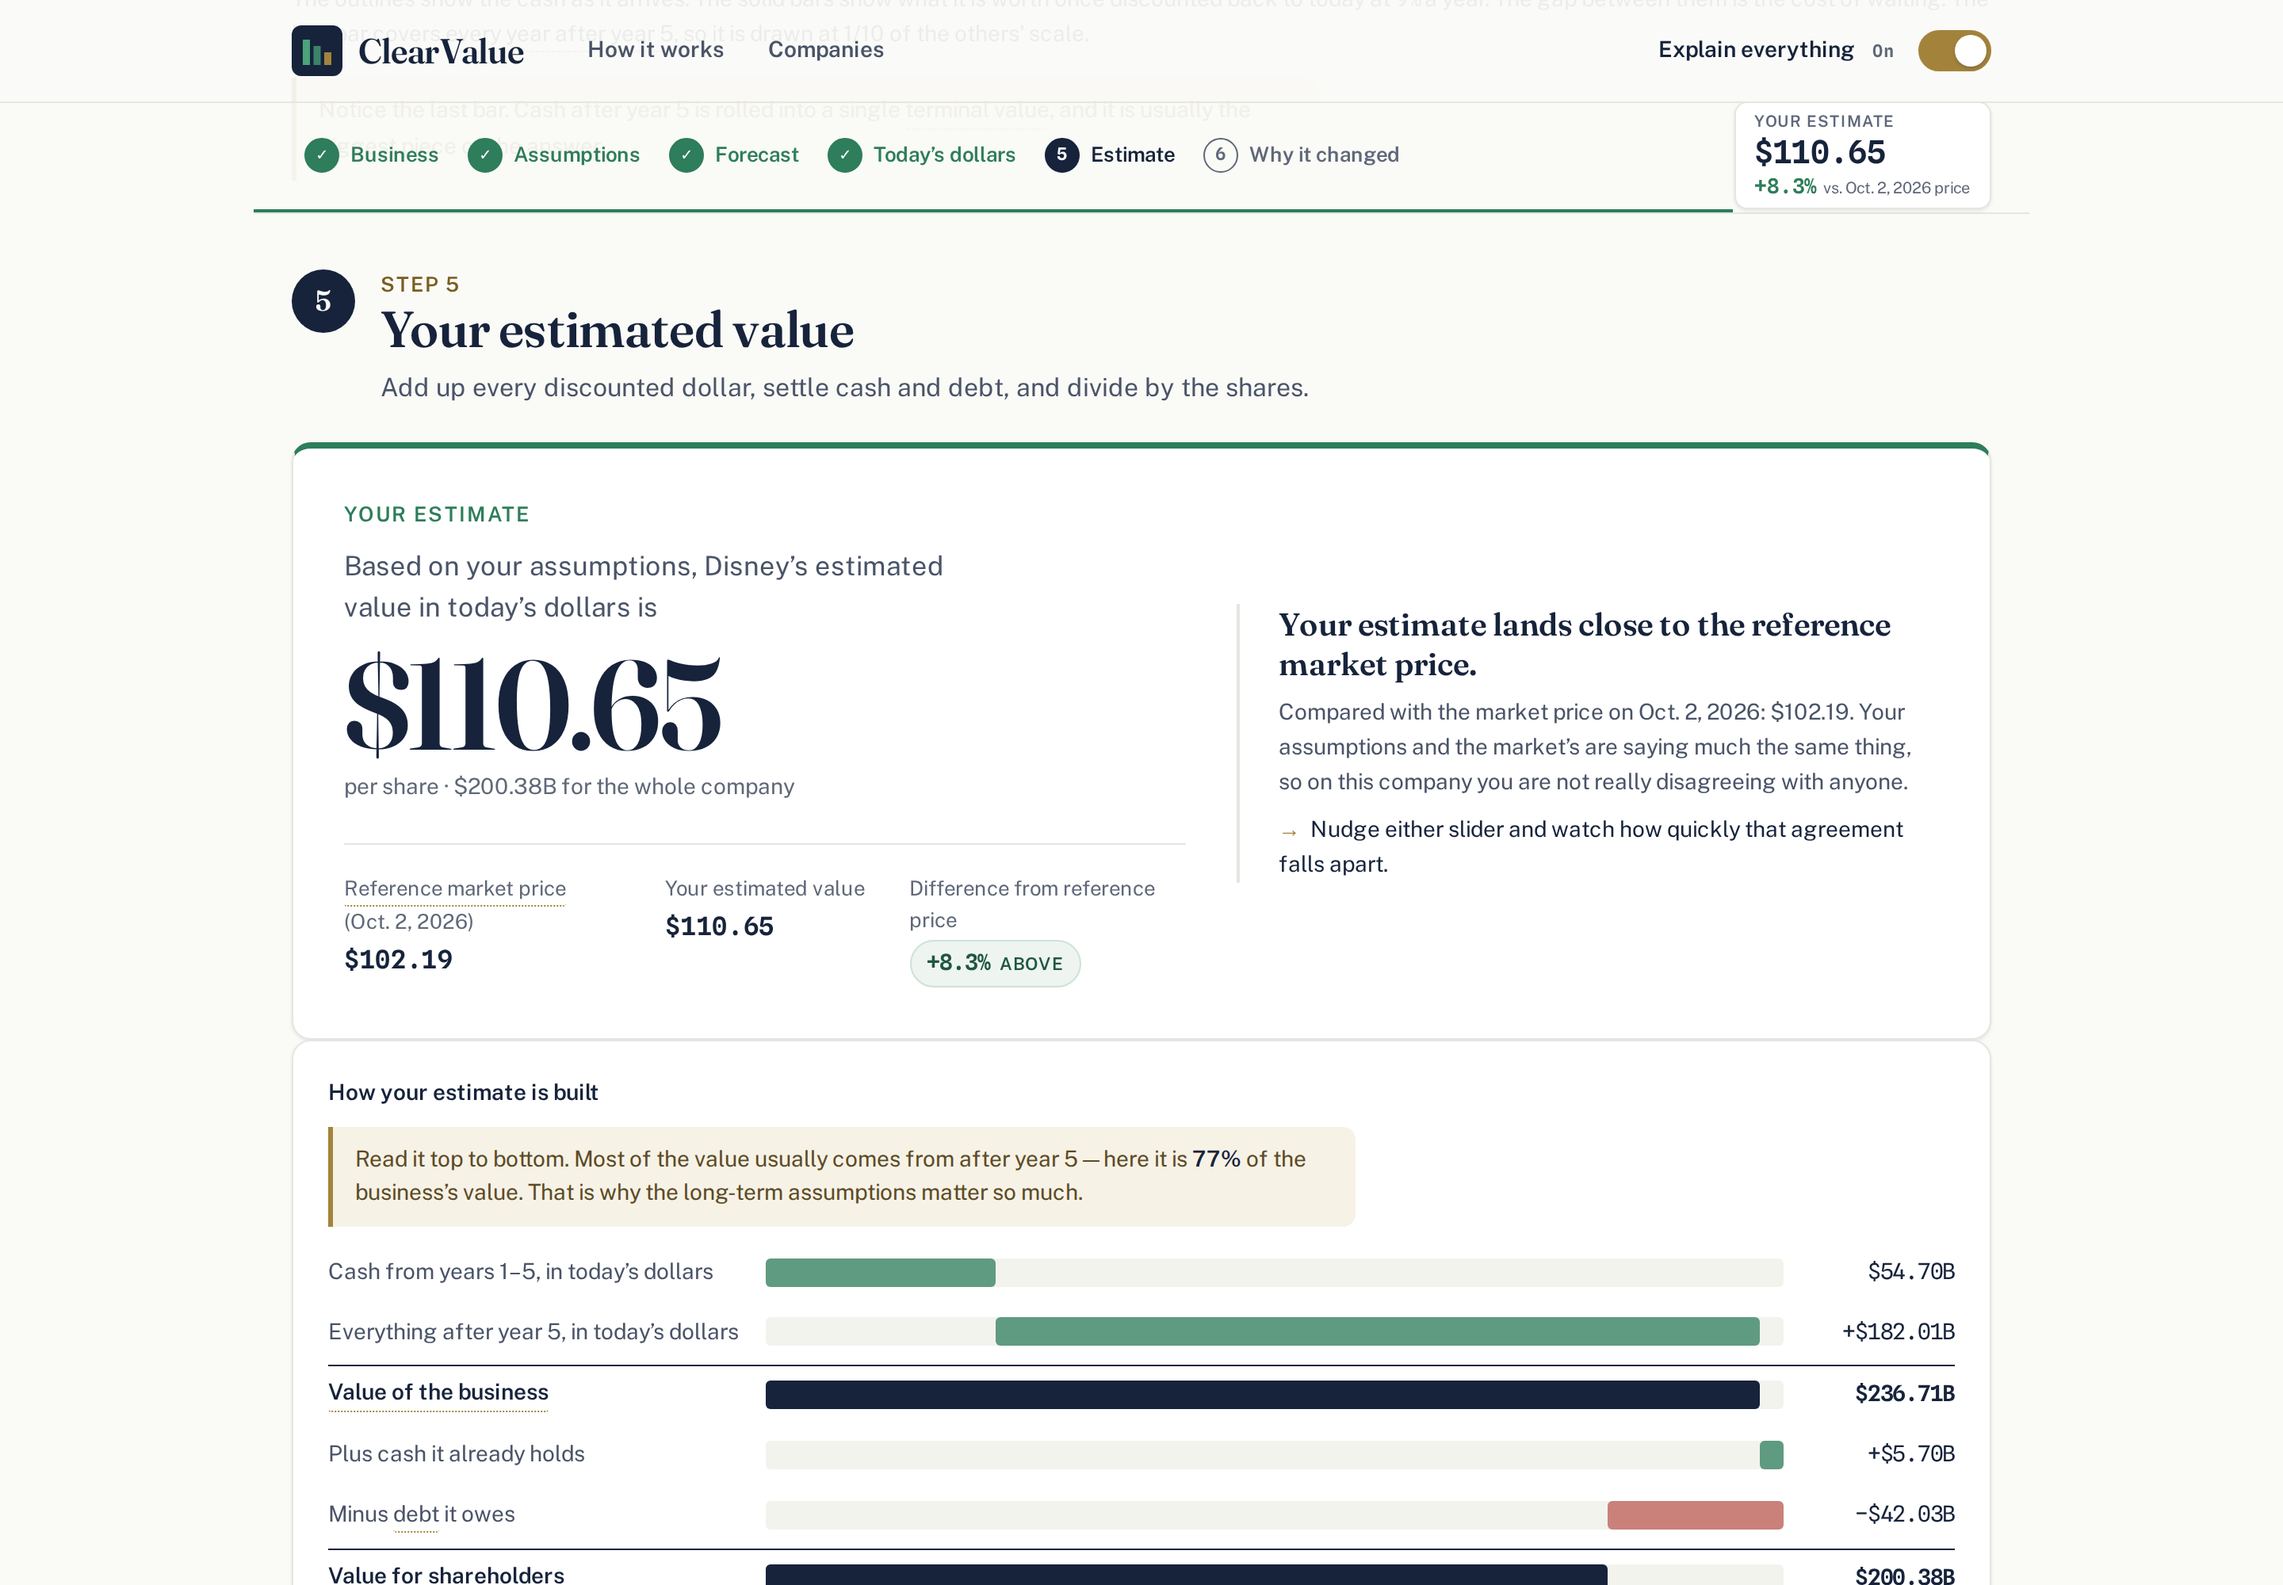
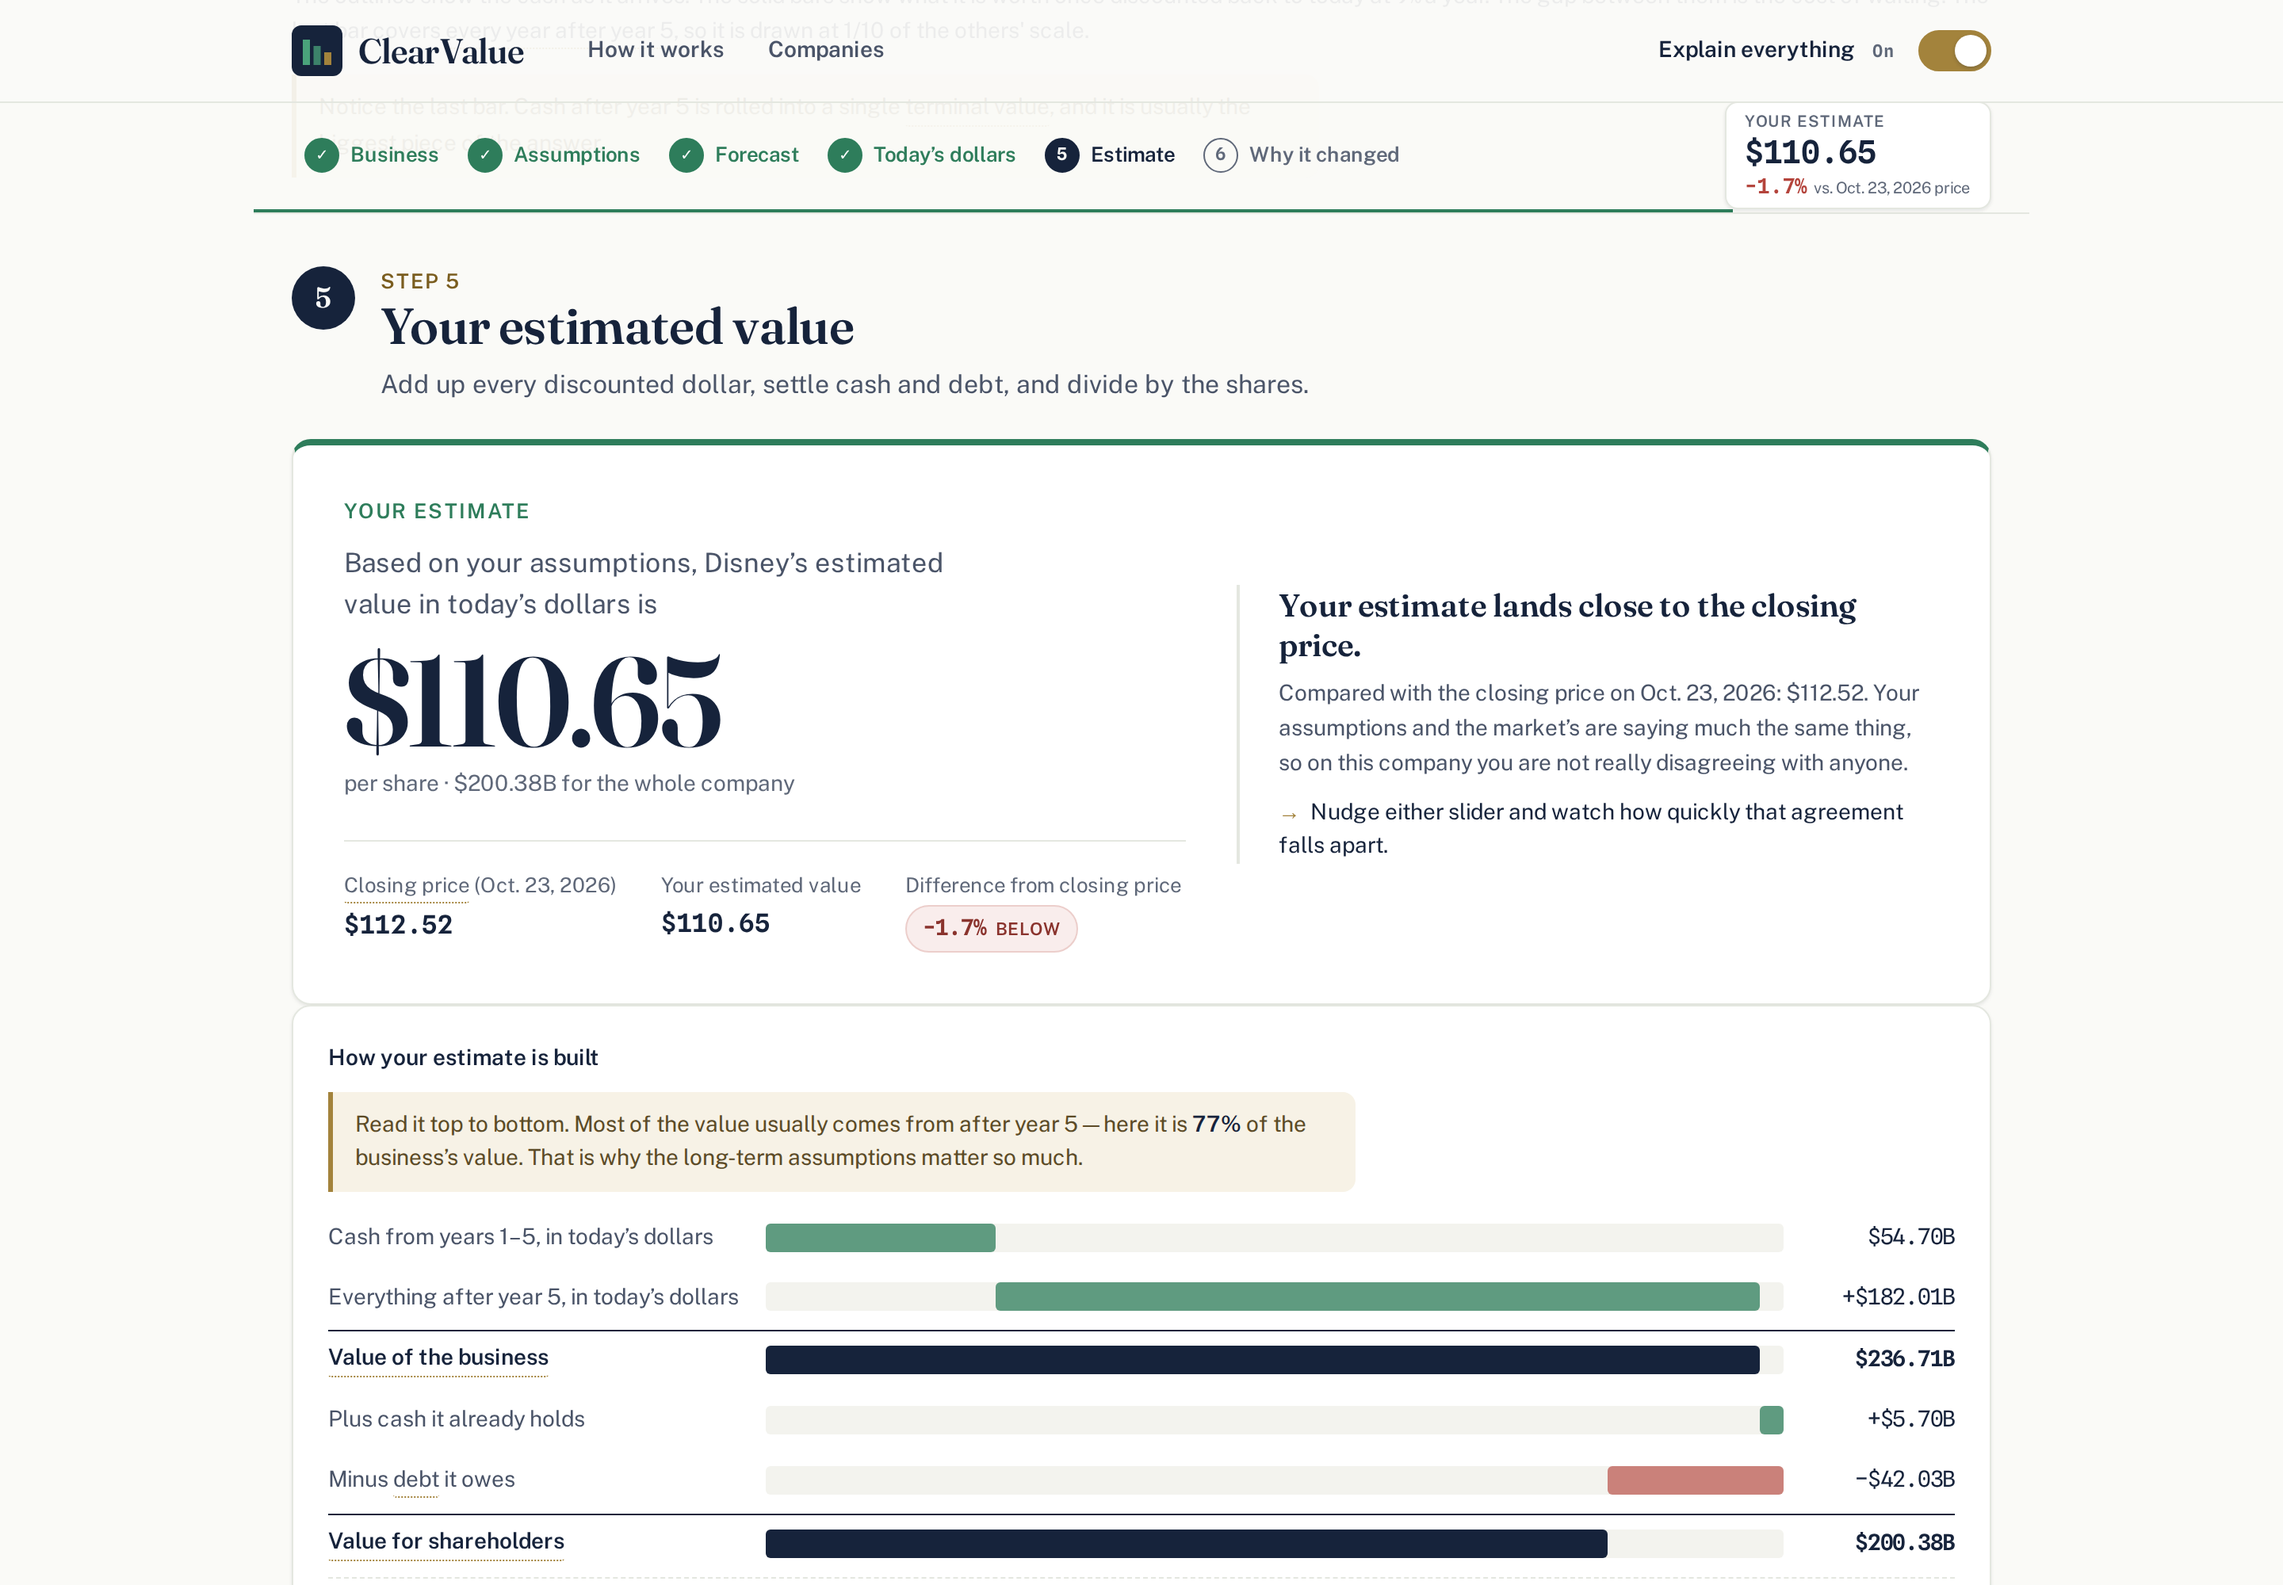
Refresh the README screenshot with the Oct. 23 closing price
Claude-Session: https://claude.ai/code/session_01WapxhJ2w927gKbnWyaQQDM

diff --git a/README.md b/README.md
@@ -10,7 +10,7 @@ Built for the 2026 Congressional App Challenge.
 
 **Live: https://aleemahmad101.github.io/congressional-app-challenge/**
 
-![ClearValue valuing Disney: the estimated value per share, compared with the reference market price on Oct. 2, 2026, and a breakdown of how the estimate is built](./docs/clearvalue-screenshot.png)
+![ClearValue valuing Disney: the estimated value per share, compared with its latest closing price, and a breakdown of how the estimate is built](./docs/clearvalue-screenshot.png)
 
 ---
 
